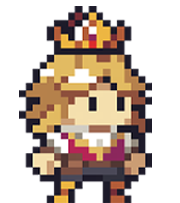
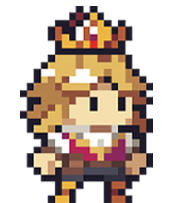
Algumas animacoes

diff --git a/src/jogar/Jogar.js b/src/jogar/Jogar.js
@@ -9,10 +9,10 @@ mandarCartasCompradasParaMinhaBag(); // Carregar os minhasCartas para o Jogar.js
 var deckIds = localStorage.getItem("deck").length == 0 ? "" : localStorage.getItem("deck").split(",");
 var deck = []; // Deck com as cartas em objs!
 
-var carta1 = minhasCartas.filter(function(carta){ return carta.getIdCarta == deckIds[0]});
-var carta2 = minhasCartas.filter(function(carta){ return carta.getIdCarta == deckIds[1]});
-var carta3 = minhasCartas.filter(function(carta){ return carta.getIdCarta == deckIds[2]});
-deck.push(carta1[0],carta2[0],carta3[0]); // Com fundo
+var carta1ataque = minhasCartas.filter(function(carta){ return carta.getIdCarta == deckIds[0]});
+var carta2ataque = minhasCartas.filter(function(carta){ return carta.getIdCarta == deckIds[1]});
+var carta3ataque = minhasCartas.filter(function(carta){ return carta.getIdCarta == deckIds[2]});
+deck.push(carta1ataque[0],carta2ataque[0],carta3ataque[0]); // Com fundo
 
 removerFundoDasCartasAtaque(deck[0]);
 removerFundoDasCartasAtaque(deck[1]);
@@ -115,7 +115,7 @@ function removerFundoDasCartasAtaque(carta) {
         case "Comum":
             switch(carta.getImgCarta){
                 case "imgs/personagens/Cavaleiro/Cavaleiro_comum.png":
-                    carta.imgCarta = "imgs/personagens/Cavaleiro/Cavaleiro_semfundo.png";
+                    carta.imgCarta = "imgs/personagens/Cavaleiro/Cavaleiro_semfundo.gif";
                 break;
                 case "imgs/personagens/Estalajadeiro/Estalajadeiro_comum.png":
                     carta.imgCarta = "imgs/personagens/Estalajadeiro/Estalajadeiro_semfundo.png";
@@ -127,7 +127,7 @@ function removerFundoDasCartasAtaque(carta) {
                     carta.imgCarta = "imgs/personagens/Gladiador/Gladiador_semfundo.png";
                 break;
                 case "imgs/personagens/Mago/Mago_comum.png":
-                    carta.imgCarta = "imgs/personagens/Mago/Mago_semfundo.png";
+                    carta.imgCarta = "imgs/personagens/Mago/Mago_semfundo.gif";
                 break;
                 case "imgs/personagens/MedicoDaPeste/MedicoDaPeste_comum.png":
                     carta.imgCarta = "imgs/personagens/MedicoDaPeste/MedicoDaPeste_semfundo.gif";
@@ -140,7 +140,7 @@ function removerFundoDasCartasAtaque(carta) {
         case "Raro":
             switch(carta.getImgCarta){
                 case "imgs/personagens/Cavaleiro/Cavaleiro_raro.png":
-                    carta.imgCarta = "imgs/personagens/Cavaleiro/Cavaleiro_semfundo.png";
+                    carta.imgCarta = "imgs/personagens/Cavaleiro/Cavaleiro_semfundo.gif";
                 break;
                 case "imgs/personagens/Estalajadeiro/Estalajadeiro_raro.png":
                     carta.imgCarta = "imgs/personagens/Estalajadeiro/Estalajadeiro_semfundo.png";
@@ -152,7 +152,7 @@ function removerFundoDasCartasAtaque(carta) {
                     carta.imgCarta = "imgs/personagens/Gladiador/Gladiador_semfundo.png";
                 break;
                 case "imgs/personagens/Mago/Mago_raro.png":
-                    carta.imgCarta = "imgs/personagens/Mago/Mago_semfundo.png";
+                    carta.imgCarta = "imgs/personagens/Mago/Mago_semfundo.gif";
                 break;
                 case "imgs/personagens/MedicoDaPeste/MedicoDaPeste_raro.png":
                     carta.imgCarta = "imgs/personagens/MedicoDaPeste/MedicoDaPeste_semfundo.gif";
@@ -165,7 +165,7 @@ function removerFundoDasCartasAtaque(carta) {
         case "Lendario":
             switch(carta.getImgCarta){
                 case "imgs/personagens/Cavaleiro/Cavaleiro_lendario.png":
-                    carta.imgCarta = "imgs/personagens/Cavaleiro/Cavaleiro_semfundo.png";
+                    carta.imgCarta = "imgs/personagens/Cavaleiro/Cavaleiro_semfundo.gif";
                 break;
                 case "imgs/personagens/Estalajadeiro/Estalajadeiro_lendario.png":
                     carta.imgCarta = "imgs/personagens/Estalajadeiro/Estalajadeiro_semfundo.png";
@@ -177,7 +177,7 @@ function removerFundoDasCartasAtaque(carta) {
                     carta.imgCarta = "imgs/personagens/Gladiador/Gladiador_semfundo.png";
                 break;
                 case "imgs/personagens/Mago/Mago_lendario.png":
-                    carta.imgCarta = "imgs/personagens/Mago/Mago_semfundo.png";
+                    carta.imgCarta = "imgs/personagens/Mago/Mago_semfundo.gif";
                 break;
                 case "imgs/personagens/MedicoDaPeste/MedicoDaPeste_lendario.png":
                     carta.imgCarta = "imgs/personagens/MedicoDaPeste/MedicoDaPeste_semfundo.gif";
